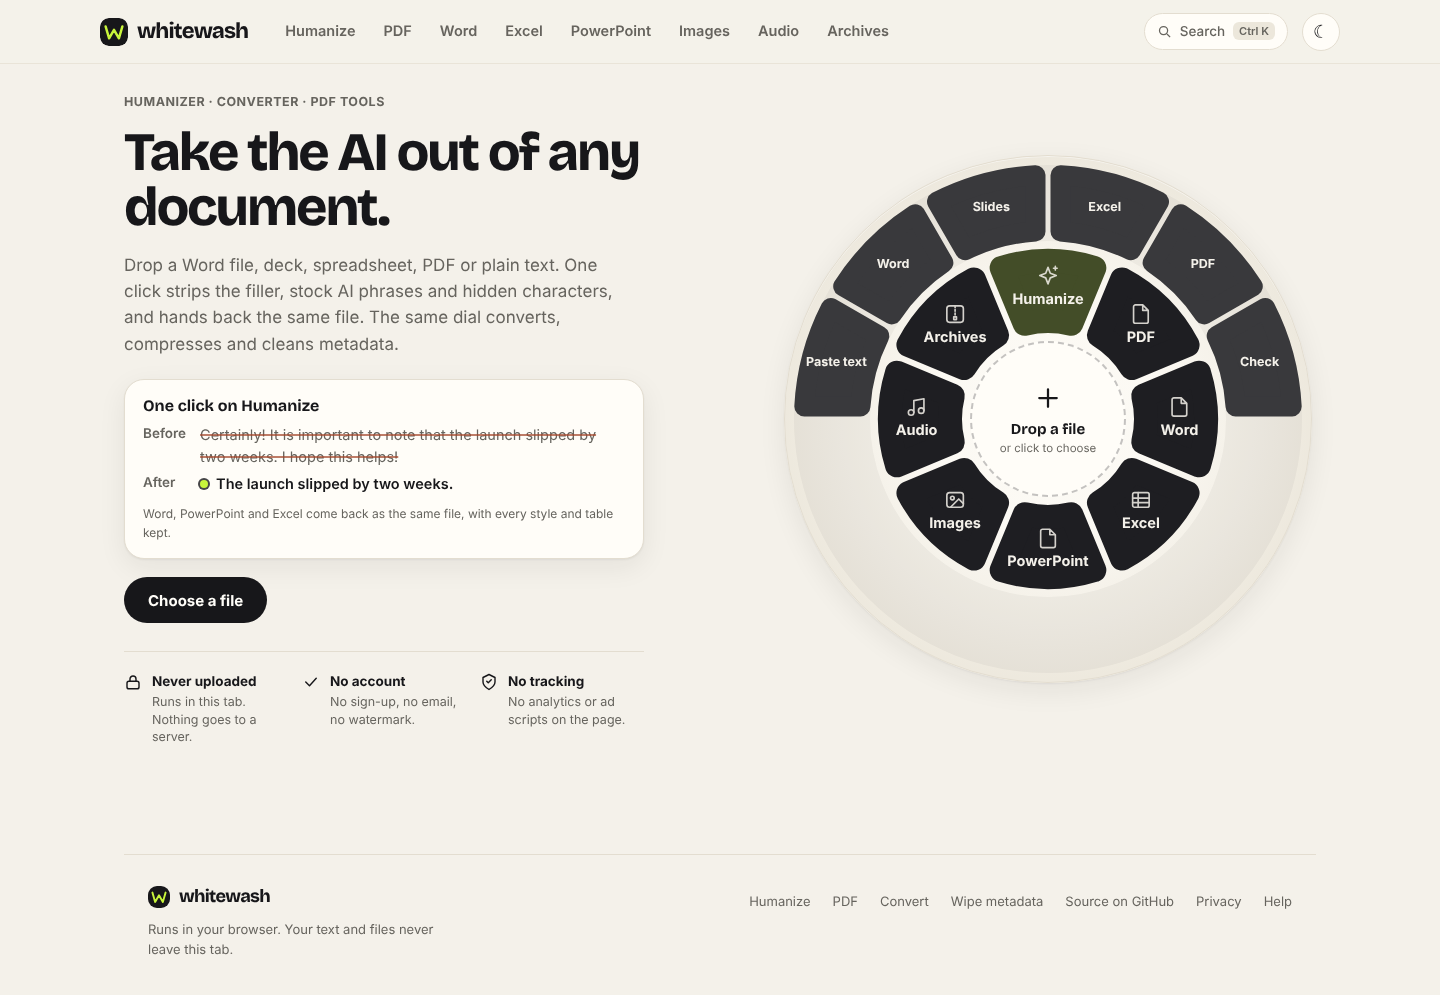
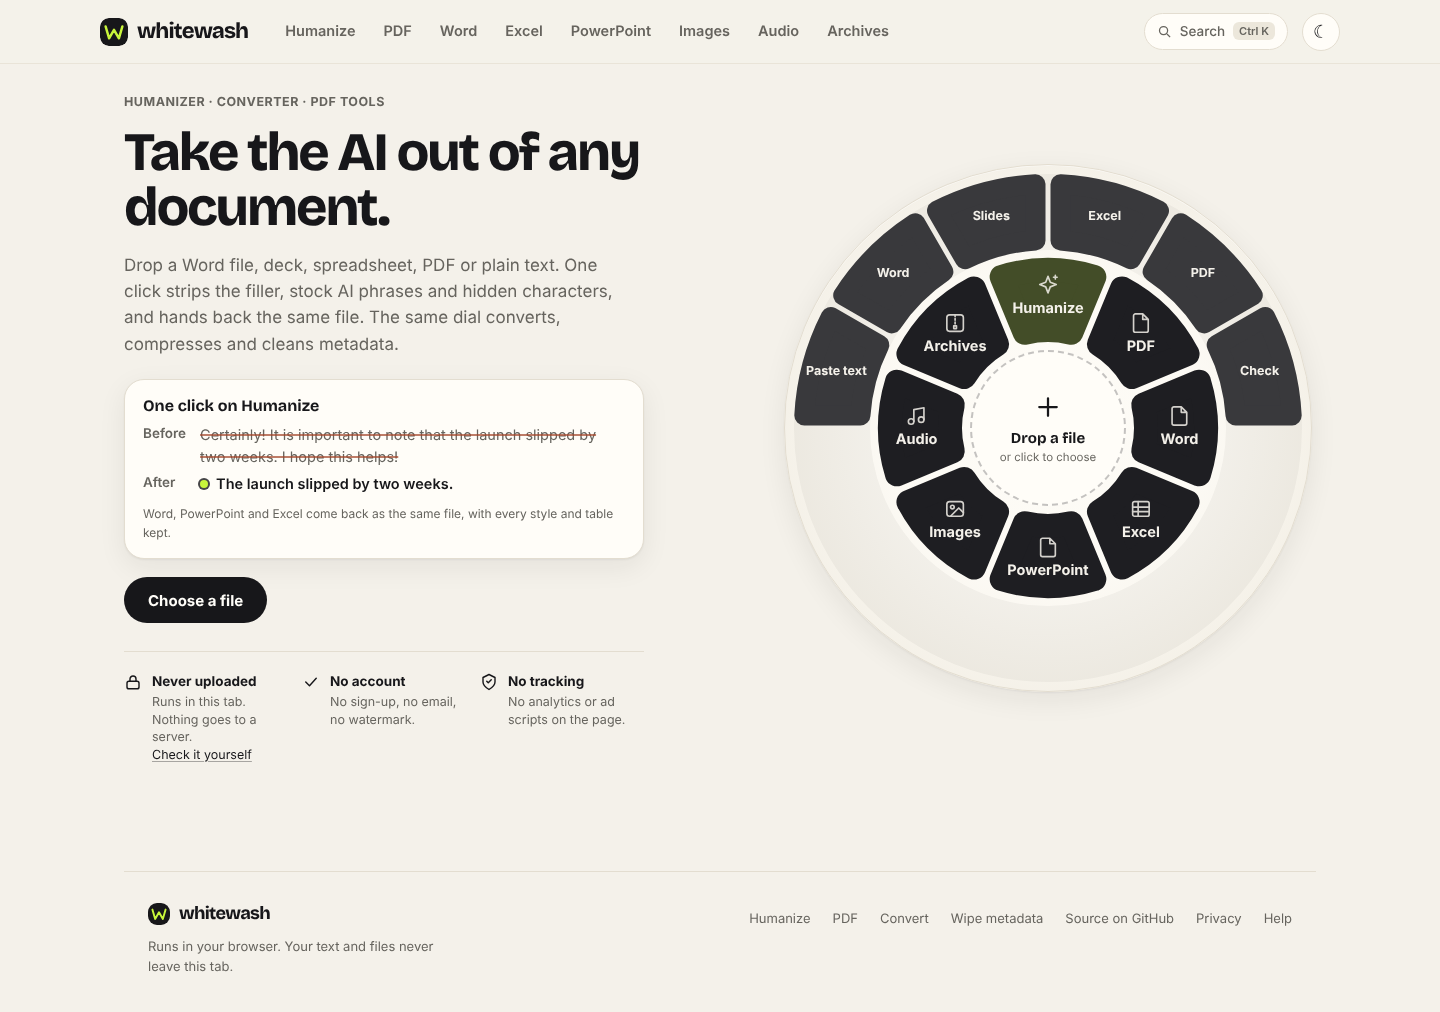
Design refresh phase B: run on drop, privacy check, back links, capital fix, AI plan
- Compress, Repair, PDF to images and Humanize a PDF run as soon as a file lands;
  no greyed-out run button before a file
- 'Check it yourself' in the trust row opens how to verify nothing is uploaded
- Back links return to the tool's format page
- Humanize keeps a capital when two openers are cut back to back (with test)
- Phone homepage shows the dial right under the headline; lighter dial disc
- Critique doc: bring-your-own-key and hosted AI plan

Claude-Session: https://claude.ai/code/session_017o8qcUSB8ZRWX2H3SSfxoo

diff --git a/website/dist/styles.css b/website/dist/styles.css
@@ -314,7 +314,7 @@ dialog::backdrop { background:rgba(10,10,12,.45); backdrop-filter:blur(4px); }
 /* The dial */
 .dial-wrap { display:grid; place-items:center; }
 .dial { position:relative; width:var(--dial-size); height:var(--dial-size); max-width:min(92vw, 560px); max-height:min(92vw, 560px); aspect-ratio:1; user-select:none; -webkit-user-select:none; }
-.dial::before { content:""; position:absolute; inset:4px; border-radius:50%; background:radial-gradient(circle, color-mix(in srgb, var(--surface) 70%, transparent) 30%, color-mix(in srgb, var(--soft) 80%, transparent) 70%); border:1px solid var(--border); box-shadow:var(--shadow), inset 0 1px 0 rgba(255,255,255,.5); }
+.dial::before { content:""; position:absolute; inset:4px; border-radius:50%; background:radial-gradient(circle, color-mix(in srgb, var(--surface) 80%, transparent) 40%, color-mix(in srgb, var(--soft) 55%, var(--surface)) 72%); border:1px solid var(--border); box-shadow:var(--shadow), inset 0 1px 0 rgba(255,255,255,.5); }
 .dial-svg { position:absolute; inset:0; width:100%; height:100%; overflow:visible; }
 .dial-seg { cursor:pointer; outline:none; transition:transform .22s cubic-bezier(.3, 1.4, .5, 1); }
 .dial-body { transform-box:fill-box; transform-origin:center; }
@@ -437,6 +437,9 @@ dialog::backdrop { background:rgba(10,10,12,.45); backdrop-filter:blur(4px); }
 .trust svg { flex:none; width:18px; height:18px; margin-top:1px; fill:none; stroke:var(--ink); stroke-width:1.9; stroke-linecap:round; stroke-linejoin:round; }
 .trust strong { display:block; color:var(--ink); font-size:13.5px; font-weight:650; margin-bottom:2px; }
 
+.link-button { border:0; padding:0; background:none; font:inherit; color:var(--ink); text-decoration:underline; text-underline-offset:2px; text-decoration-color:color-mix(in srgb, var(--ink) 35%, transparent); }
+.link-button:hover { text-decoration-color:var(--ink); }
+
 /* Before/after card on the homepage */
 .dial-info.proof dd { font-size:14.5px; line-height:1.5; }
 .dial-info.proof dd:nth-of-type(1) { color:var(--muted); text-decoration:line-through; text-decoration-color:color-mix(in srgb, var(--removed) 70%, transparent); text-decoration-thickness:1.5px; }
@@ -462,5 +465,10 @@ dialog::backdrop { background:rgba(10,10,12,.45); backdrop-filter:blur(4px); }
   .dial-hub strong { font-size:13px; }
   .dial-hub span:last-child { display:none; }
   .footer { flex-direction:column; gap:16px; margin:24px 0 0; padding:24px 16px 32px; }
+  /* Phone homepage: the dial comes straight after the headline */
+  .hub-top { gap:0; padding-top:20px; }
+  .hub-copy { display:contents; }
+  .hub-top .eyebrow,.hub-top h1 { order:-2; }
+  .hub-top .dial-wrap { order:-1; margin:4px 0 24px; }
   .panel>.office-entry,.file-entry { margin:12px; padding:28px 16px; }
 }

diff --git a/website/dist/app.js b/website/dist/app.js
@@ -81,7 +81,13 @@ function route() {
   const separate = ['office', 'image', 'convert', 'pdf', 'wipe', 'archive', 'ocr'].includes(mode);
   $('hub-view').hidden = !!active;
   showHub(active ? false : section ? section.id : null);
-  for (const link of document.querySelectorAll('.tab-link')) link.classList.toggle('current', link.dataset.section === sectionOf(location.hash)?.id);
+  const owner = sectionOf(location.hash);
+  for (const link of document.querySelectorAll('.tab-link')) link.classList.toggle('current', link.dataset.section === owner?.id);
+  // Back links return to the format page the tool lives on, not the homepage.
+  for (const back of document.querySelectorAll('.back-link')) {
+    back.href = owner ? '#' + owner.id : '#home';
+    back.lastChild.textContent = owner ? ' Back to ' + owner.title : ' Home';
+  }
   $('tool-view').hidden = !ready || separate;
   $('office-view').hidden = !office;
   $('image-view').hidden = !image;
@@ -293,10 +299,14 @@ function dialog(title, paragraphs) {
   for (const text of paragraphs) { const p = document.createElement('p'); p.textContent = text; $('dialog-content').append(p); }
   $('info-dialog').showModal();
 }
-$('privacy').addEventListener('click', () => dialog('Privacy', [
+const privacy = () => dialog('Privacy', [
   'Everything happens in this browser tab. Your text and files are never uploaded, there’s no account, and there are no analytics.',
+  'Check it yourself: open your browser’s developer tools (F12), go to the Network tab, then humanize or convert a file. You’ll only see this site’s own scripts loading, never your file going out. The page’s security policy also blocks it from talking to any other server.',
+  'Or load the page, turn on airplane mode, and humanize some pasted text: it still works. PDF, audio, archive and scan tools load extra code the first time you use them, so open them once while you’re online.',
   'The only thing saved is whether you picked light or dark mode. Reloading the page clears your draft. The site host still sees ordinary page requests, like any website.',
-]));
+]);
+$('privacy').addEventListener('click', privacy);
+$('trust-check')?.addEventListener('click', privacy);
 $('help').addEventListener('click', () => dialog('Help', [
   'Paste text or drop a file, pick what you want done, then copy or download the result. Your original is never changed.',
   'Polishing uses a list of English phrase rules, not an AI model. Open “See changes” to undo any edit you don’t like.',

diff --git a/website/dist/pdf-ui.js b/website/dist/pdf-ui.js
@@ -7,6 +7,9 @@ const $ = (id) => document.getElementById(id);
 let active = null, items = [], pages = [], last = null, generation = 0, onPolish = null;
 const MULTI = { 'pdf-merge': true, 'images-to-pdf': true };
 const RUN_LABEL = { 'pdf-protect': 'Add password', 'pdf-unlock': 'Unlock PDF', 'pdf-compress': 'Compress PDF', 'pdf-repair': 'Repair PDF', 'pdf-sign': 'Sign and save', 'pdf-merge': 'Merge PDFs', 'pdf-split': 'Split PDF', 'pdf-organize': 'Save PDF', 'images-to-pdf': 'Make PDF', 'pdf-to-images': 'Save pages as images', 'pdf-polish': 'Polish the text', 'pdf-watermark': 'Add watermark', 'pdf-numbers': 'Add page numbers' };
+// Jobs whose default setting is right for most people run as soon as the file
+// lands. Change a setting afterwards and press the button to run it again.
+const AUTO = new Set(['pdf-polish', 'pdf-compress', 'pdf-repair', 'pdf-to-images']);
 const HINT = { 'images-to-pdf': 'JPG, PNG, WebP, GIF or BMP · add as many as you like · or drop them here', 'pdf-merge': 'Add two or more PDFs · or drop them here' };
 
 export const setPolishHandler = (fn) => { onPolish = fn; };
@@ -46,6 +49,9 @@ function render() {
     return row;
   }));
   $('pdf-pages').hidden = active?.id !== 'pdf-organize' || !pages.length;
+  // No dead grey button before there's a file: the drop zone is the first step.
+  $('pdf-run').closest('.primary-row').hidden = !items.length;
+  if (items.length && AUTO.has(active?.id) && last && $('pdf-run').textContent === RUN_LABEL[active.id]) $('pdf-run').textContent = 'Redo with these settings';
   $('pdf-run').disabled = !items.length || (active?.id === 'pdf-merge' && items.length < 2) || (active?.id === 'pdf-organize' && !pages.some((p) => !p.deleted));
 }
 
@@ -75,7 +81,7 @@ export async function loadPdf(list) {
   if (active.id === 'pdf-organize' && items[0]) await thumbnails(items[0].bytes, version);
   if (active.id === 'pdf-sign' && items[0]) { $('sign-page').replaceChildren(...Array.from({ length: items[0].pages }, (_, i) => new Option('Page ' + (i + 1), i))); $('sign-page').value = items[0].pages - 1; await signPreview(); }
   render();
-  if (!MULTI[active.id] && items.length && active.id === 'pdf-polish') run();
+  if (!MULTI[active.id] && items.length && AUTO.has(active.id)) run();
 }
 
 async function thumbnails(bytes, version) {

diff --git a/website/dist/engine.js b/website/dist/engine.js
@@ -191,11 +191,17 @@ export function proposeEdits(text, options = {}) {
   if (options.mode === 'humanize') {
     for (const [pattern, after, reason] of tellRules) add(pattern, after, 'clarity', reason);
     // Openers and chatbot sign-offs: cut them and capitalise what follows.
-    for (const [pattern, reason] of cutRules) for (const match of text.matchAll(pattern)) {
-      let start = match.index; const end = start + match[0].length;
+    // Cuts run in text order, so a cut that ends where an earlier opener was cut
+    // ("In today's world, it is important to note that…") still starts a sentence.
+    const cuts = [];
+    for (const [pattern, reason] of cutRules) for (const match of text.matchAll(pattern)) cuts.push([match.index, match.index + match[0].length, reason]);
+    const starts = new Set();
+    for (const [matchStart, end, reason] of cuts.sort((a, b) => a[0] - b[0])) {
+      let start = matchStart;
       if (isProtected(start, end)) continue;
       const next = text[end] || '';
-      const atStart = start === 0 || /[.!?]\s*$|\n\s*$/.test(text.slice(Math.max(0, start - 3), start));
+      const atStart = start === 0 || starts.has(start) || /[.!?]\s*$|\n\s*$/.test(text.slice(Math.max(0, start - 3), start));
+      if (atStart) starts.add(end);
       // A cut that ends the line takes the space before it too.
       if (end === text.length || next === '\n') while (start > 0 && /[ \t]/.test(text[start - 1])) start--;
       push(start, end, '', 'clarity', reason);

diff --git a/website/dist/index.html b/website/dist/index.html
@@ -38,7 +38,7 @@
       <div class="hub-buttons"><button class="primary" id="hub-pick">Choose a file</button><button class="text-button" id="hub-clear" hidden>Start over</button></div>
       <p id="hub-error" class="office-error" role="alert" hidden></p>
       <ul class="trust" aria-label="Why it’s safe">
-        <li><svg aria-hidden="true"><use href="#lock"/></svg><span><strong>Never uploaded</strong>Runs in this tab. Nothing goes to a server.</span></li>
+        <li><svg aria-hidden="true"><use href="#lock"/></svg><span><strong>Never uploaded</strong>Runs in this tab. Nothing goes to a server. <button type="button" id="trust-check" class="link-button">Check it yourself</button></span></li>
         <li><svg aria-hidden="true"><use href="#check"/></svg><span><strong>No account</strong>No sign-up, no email, no watermark.</span></li>
         <li><svg aria-hidden="true"><use href="#shield"/></svg><span><strong>No tracking</strong>No analytics or ad scripts on the page.</span></li>
       </ul>

diff --git a/research/design-critique-2026-11.md b/research/design-critique-2026-11.md
@@ -33,7 +33,7 @@ Ordered by how much it costs you.
 
 ## A functional bug that hurts the pitch
 
-Humanizing "In today's fast-paced world, it is important to note that teamwork is crucial." returns "teamwork is crucial." The first letter isn't re-capitalised when two stock phrases are cut back to back. A single phrase is handled; two in a row isn't. This is the first thing a paying user would see go wrong, so it should be fixed before any pricing goes live. (Flagged for the functional-testing work rather than fixed here.)
+Humanizing "In today's fast-paced world, it is important to note that teamwork is crucial." returns "teamwork is crucial." The first letter isn't re-capitalised when two stock phrases are cut back to back. A single phrase is handled; two in a row isn't. This is the first thing a paying user would see go wrong, so it should be fixed before any pricing goes live. (Fixed in Phase B, with a regression test.)
 
 ## What competitors do that we should borrow
 
@@ -60,24 +60,46 @@ The opening we have that they don't: **document humanizing that returns the same
 
 No layout, dial, or flow changes. Everything mykee fixed in Phase 4 (dial size, plain + centre, no badges, one Humanize button) is untouched.
 
-## Phase B (next, no decision needed)
+## Phase B (done in the same PR, except where noted)
 
-1. **Run on drop.** Single-tool pages start the job as soon as the file arrives with the default setting, then show the result with "Change setting and redo". Kill the disabled grey button.
-2. **Proof of privacy.** A small "Check it yourself" link that opens a note: turn on airplane mode after the page loads and the core tools still work; the page's security policy blocks outside connections. Add a live "0 bytes uploaded" counter in the status pill after each job.
-3. **Back links go to the format page** the tool lives on.
-4. **Fix the capitalisation bug** above.
-5. **Lighten the dial's bowl** in light mode and even out the card grid.
-6. **Phone dial first.** On phones, put the dial right under the headline and the before/after card below it.
+1. **Run on drop.** *(Done for Compress, Repair, PDF to images and Humanize a PDF. The run button stays hidden until a file arrives and then reads "Redo with these settings". Other tools need a real choice first: a password, pages, signature placement.)* Single-tool pages start the job as soon as the file arrives with the default setting, then show the result with "Change setting and redo". Kill the disabled grey button.
+2. **Proof of privacy.** *(Done: a "Check it yourself" link in the trust row opens steps for checking the Network tab and trying airplane mode. The "0 bytes uploaded" counter isn't built.)* A small "Check it yourself" link that opens a note: turn on airplane mode after the page loads and the core tools still work; the page's security policy blocks outside connections. Add a live "0 bytes uploaded" counter in the status pill after each job.
+3. *(Done.)* **Back links go to the format page** the tool lives on.
+4. *(Done, with a test.)* **Fix the capitalisation bug** above.
+5. **Lighten the dial's bowl** in light mode *(done)* and even out the card grid *(not yet)*.
+6. *(Done.)* **Phone dial first.** On phones, put the dial right under the headline and the before/after card below it.
 
-## Phase C (needs mykee's call): the paid surface
+## Phase C: AI rewrite, with your own key or ours
 
-Nothing is built for this yet, because what to charge for changes the product. My recommendation:
+Status 4 Nov 2026: pricing is on hold (mykee's call), but the direction is set. AI features come in two ways, and the hosted one is the paid one. This builds on the parked notes in [`later.md`](later.md).
 
-- **Free forever:** everything that exists today. Converters, PDF tools and rule-based Humanize stay free, no limits. That's the funnel and the reason people bookmark it; capping it now would just push them back to iLovePDF.
-- **Pro (around $8 a month or $60 a year):** the things that cost us money or are clearly "work" features:
-  - "Rewrite in your voice", the LLM rewrite already parked in `research/later.md`, with a monthly word allowance.
-  - Batch Humanize (drop 50 Word files, get a ZIP back).
-  - Saved "never change these phrases" lists and a personal style profile.
-- **Where it shows up:** a "Pro" item at the right of the header; a locked third segment on the document dial ("Rewrite") that opens a short upsell instead of a pricing table; a `#pricing` page with two columns, not four.
+### What the AI does
+- **Rewrite** as a third segment on every document dial, next to Humanize and Edit. Humanize stays rule-based, free and instant. Rewrite runs a model over the text the rules have already cleaned, so it's cheaper and less likely to drift.
+- Later: a voice profile (paste two or three things you wrote), "rewrite just this sentence" on a flagged AI tell, shorten or change tone, and a model pass that fixes reading order in PDF imports.
+- Word, PowerPoint and Excel still come back as the same file. The model rewrites paragraph text only. Runs, styles, numbers, quotes, links and code stay locked, the same as Humanize today.
 
-Smallpdf and iLovePDF both price around $7 to $15 a month for Pro, and humanizer tools sit in the same band, so $8 is in range. Treat that number as a placeholder until there's an LLM cost per word to price against.
+### Two ways to power it
+| | Bring your own key | Whitewash AI (Pro) |
+|---|---|---|
+| Who pays for the model | The user, on their own provider account | Us, covered by the subscription |
+| Where the text goes | Straight from the browser to the provider (OpenAI, Anthropic, Google). Never to us | To our server, then the provider. Not stored |
+| Setup | Paste a key once | Sign in |
+| What it needs from us | A settings sheet and the provider calls. No server | Accounts, billing (Stripe), metering, abuse limits, a small API |
+
+### The design
+- **First click on Rewrite with nothing set up** opens one sheet with two cards: "Use your own key" (free, paste a key, pick the provider) and "Whitewash AI" (Pro, sign in). No pricing table.
+- **Key settings** live behind a small key icon in the header. The key is kept on this device only. By default it lasts for the tab session, with a "remember on this device" checkbox. There's a "Test key" button and a "Forget key" button. The sheet says in one line where the text goes.
+- **Honest labels.** Today every tool says "never uploaded". Any AI action shows a small "Sent to OpenAI" (or Anthropic, or Whitewash) tag on the button and in the status pill, so the privacy promise stays true for everything else.
+- **Cost before you click.** For a dropped document, show roughly how many words will be sent before running it.
+
+### Things to know before building it
+- **The content security policy has to change.** It only allows same-origin connections today. A key-based provider must be allowed in `connect-src`, one host at a time, and only for the providers we support. Anthropic's API also needs its direct-browser-access header for calls made from a browser.
+- **A "bring your own key" paywall can't be enforced on a static site.** The code ships to the browser, so anyone can turn a client-side lock off. Make bring-your-own-key free and let Pro be the hosted option. Hosted AI is the part that costs us money and the part a server can actually meter. If you'd rather charge for bring-your-own-key as well, that needs the server and accounts first.
+- **Hosted AI ends "no server".** It needs a backend, sign-in and billing. That's the biggest single piece of work on this list, so it should be its own phase after bring-your-own-key ships.
+- **Don't promise to beat AI detectors.** "Reads like you wrote it" is the claim. Detector-bypass claims are what the low-trust competitors sell.
+
+### Order
+1. Bring-your-own-key Rewrite for pasted text (settings sheet, one provider, CSP change).
+2. The same for Word, PowerPoint and Excel, keeping structure.
+3. More providers and a voice profile.
+4. Whitewash AI: accounts, billing and the hosted endpoint. This is when pricing comes back.
